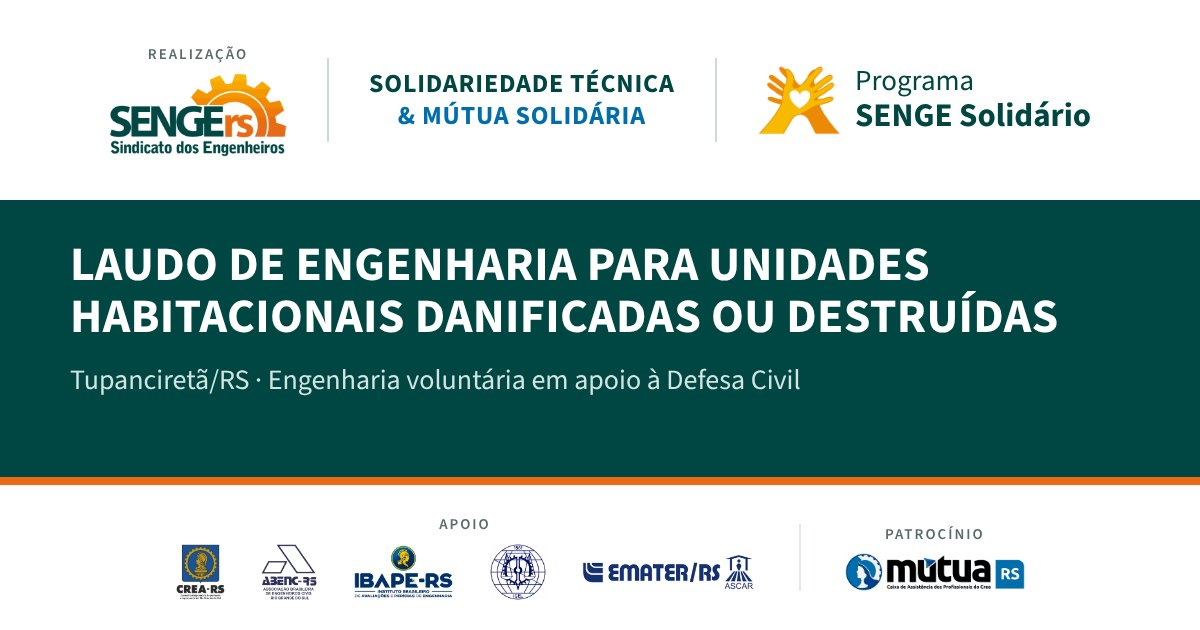
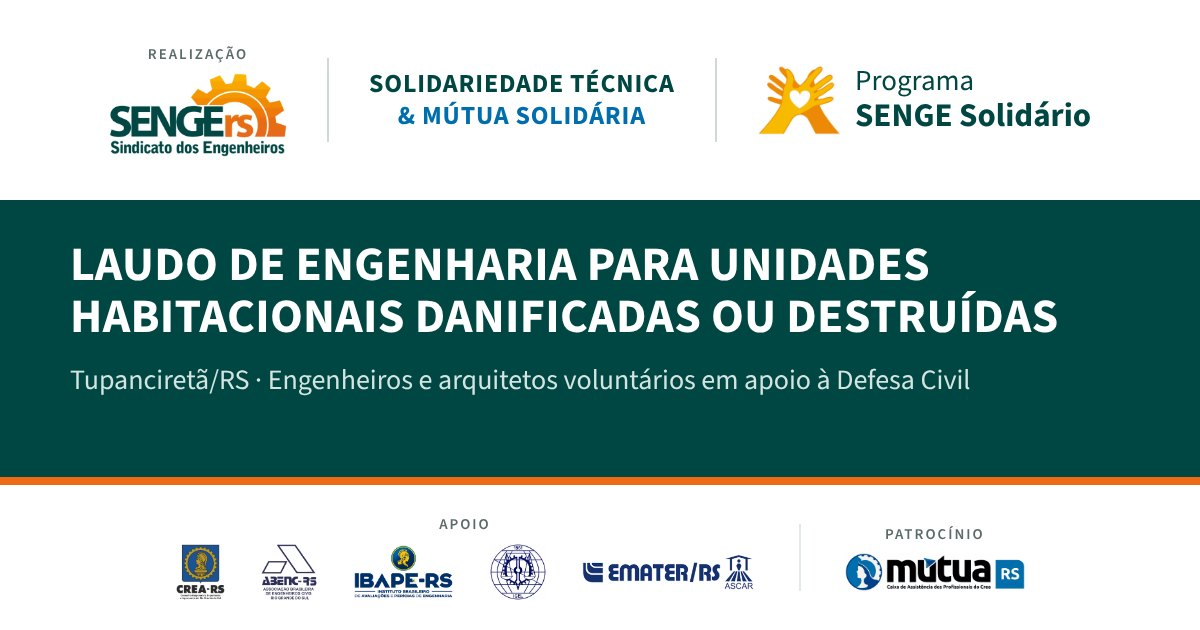
Laudos Tupanciretã: inclui arquitetos e urbanistas; fotos numeradas sem descrição
Claude-Session: https://claude.ai/code/session_018dCXhm8fffhvTyiHNMtGcB

Changed region(s): [[0.2775, 0.573, 0.8017, 0.6333]]

diff --git a/laudos-tupancireta/index.html b/laudos-tupancireta/index.html
@@ -7,12 +7,12 @@
 <meta name="theme-color" content="#004642">
 <link rel="apple-touch-icon" href="icon-192.png">
 <title>Laudo de engenharia – Unidades habitacionais · Tupanciretã · SENGE-RS</title>
-<meta name="description" content="Laudo de engenharia para unidades habitacionais danificadas ou destruídas, no modelo da Defesa Civil. Engenharia voluntária do SENGE-RS – Programa SENGE Solidário, em Tupanciretã/RS.">
+<meta name="description" content="Laudo de engenharia para unidades habitacionais danificadas ou destruídas, no modelo da Defesa Civil. Engenheiros e arquitetos voluntários do SENGE-RS – Programa SENGE Solidário, em Tupanciretã/RS.">
 <meta property="og:type" content="website">
 <meta property="og:locale" content="pt_BR">
 <meta property="og:site_name" content="SENGE-RS · Programa SENGE Solidário">
 <meta property="og:title" content="Laudo de engenharia – Unidades habitacionais · Tupanciretã/RS">
-<meta property="og:description" content="Engenharia voluntária em apoio à Defesa Civil. Preenchimento do laudo no modelo oficial, com fotos, localização e assinatura gov.br.">
+<meta property="og:description" content="Engenheiros e arquitetos voluntários em apoio à Defesa Civil. Preenchimento do laudo no modelo oficial, com fotos, localização e assinatura gov.br.">
 <meta property="og:url" content="https://engjessicamoraes.github.io/apresentacoessenge/laudos-tupancireta/">
 <meta property="og:image" content="https://engjessicamoraes.github.io/apresentacoessenge/laudos-tupancireta/og.jpg">
 <meta property="og:image:width" content="1200"><meta property="og:image:height" content="630">
@@ -181,7 +181,7 @@ footer button{background:none;border:0;padding:0;color:var(--muted);text-decorat
   <div class="mote"><span class="m1">SOLIDARIEDADE<br class="mb"> TÉCNICA</span><br class="dk"> <span class="m2">&amp;<br class="mb"> MÚTUA SOLIDÁRIA</span></div>
   <div class="div"></div>
[1 lines of base64/hex data omitted]
-  <div class="org">Engenharia voluntária<br>em apoio à Defesa Civil</div>
+  <div class="org">Engenheiros e arquitetos voluntários<br>em apoio à Defesa Civil</div>
   <div class="parc">
     <div class="grp"><span class="lab">Apoio</span><div class="lg">
[1 lines of base64/hex data omitted]
@@ -232,13 +232,13 @@ footer button{background:none;border:0;padding:0;color:var(--muted);text-decorat
     <div class="body">
       <div class="grid">
         <div class="f s8"><label class="l" for="rtNome">Nome completo <span class="req">*</span></label><input type="text" id="rtNome" data-k="rtNome" autocomplete="name"></div>
-        <div class="f s4"><label class="l" for="rtProf">Profissão <span class="req">*</span></label><input type="text" id="rtProf" data-k="rtProf" list="profs"></div>
-        <div class="f s4"><label class="l" for="rtReg">Registro de classe nº <span class="req">*</span></label><input type="text" id="rtReg" data-k="rtReg" placeholder="CREA-RS 000000"></div>
+        <div class="f s4"><label class="l" for="rtProf">Profissão <span class="req">*</span></label><input type="text" id="rtProf" data-k="rtProf" list="profs" placeholder="Ex.: Engenheiro(a) Civil ou Arquiteto(a) e Urbanista"></div>
+        <div class="f s4"><label class="l" for="rtReg">Registro profissional (CREA ou CAU) <span class="req">*</span></label><input type="text" id="rtReg" data-k="rtReg" placeholder="CREA-RS 000000 ou CAU A000000-0"></div>
         <div class="f s4"><label class="l" for="rtCargo">Cargo/Função</label><input type="text" id="rtCargo" data-k="rtCargo"></div>
         <div class="f s4"><label class="l" for="rtOrgao">Órgão/Entidade</label><input type="text" id="rtOrgao" data-k="rtOrgao"></div>
       </div>
       <p class="note">A assinatura é feita pelo gov.br, em nome do profissional indicado acima. Confira se o nome informado coincide com o do titular da conta gov.br.</p>
-      <datalist id="profs"><option>Engenheiro(a) Civil</option><option>Engenheiro(a) Civil e de Segurança do Trabalho</option><option>Arquiteto(a) e Urbanista</option><option>Engenheiro(a) Eletricista</option></datalist>
+      <datalist id="profs"><option>Engenheiro(a) Civil</option><option>Arquiteto(a) e Urbanista</option><option>Engenheiro(a) Civil e de Segurança do Trabalho</option><option>Engenheiro(a) Eletricista</option></datalist>
     </div>
   </details>
 
@@ -359,11 +359,7 @@ footer button{background:none;border:0;padding:0;color:var(--muted);text-decorat
         <span class="hint">Registre a vista geral da fachada, a cobertura, os ambientes internos atingidos e os detalhes dos danos.</span>
       </div>
       <div class="photos" id="photos"></div>
-      <datalist id="phDesc">
-        <option>Vista geral da fachada</option><option>Cobertura com destelhamento</option><option>Madeiramento da cobertura danificado</option>
-        <option>Forro com infiltração</option><option>Fissura em alvenaria</option><option>Trinca em alvenaria</option><option>Esquadria danificada</option>
-        <option>Queda de muro</option><option>Instalações elétricas danificadas</option><option>Ambiente interno atingido</option><option>Colapso parcial de alvenaria</option>
-      </datalist>
+
     </div>
   </details>
 
@@ -396,7 +392,7 @@ footer button{background:none;border:0;padding:0;color:var(--muted);text-decorat
 </main>
 
 <footer>
-  Iniciativa de engenharia voluntária do Sindicato dos Engenheiros no Estado do Rio Grande do Sul (SENGE-RS), por meio do Programa SENGE Solidário e da campanha Solidariedade Técnica &amp; Mútua Solidária, em apoio à Defesa Civil, com base no modelo oficial de laudo para unidades habitacionais (Anexo I). Os dados preenchidos ficam gravados no aparelho e o laudo é gerado no próprio navegador; ao final, uma cópia em PDF e em Word é enviada automaticamente à coordenação do programa. O mapa público não exibe dados pessoais.
+  Iniciativa de engenheiros e arquitetos voluntários, promovida pelo Sindicato dos Engenheiros no Estado do Rio Grande do Sul (SENGE-RS) por meio do Programa SENGE Solidário e da campanha Solidariedade Técnica &amp; Mútua Solidária, em apoio à Defesa Civil, com base no modelo oficial de laudo para unidades habitacionais (Anexo I). Os dados preenchidos ficam gravados no aparelho e o laudo é gerado no próprio navegador; ao final, uma cópia em PDF e em Word é enviada automaticamente à coordenação do programa. O mapa público não exibe dados pessoais.
 </footer>
 
 <div class="bar"><div class="in">
@@ -470,7 +466,7 @@ function cpfMask(v){ const d=v.replace(/\D/g,"").slice(0,11); return d.replace(/
 /* ====================== Estado ====================== */
 const DEFAULTS = {
   mun:"Tupanciretã", uf:"RS", evento:"vendaval", eventoOutro:"", cobrade:"1.3.2.1.5", dtOcorr:"2026-11-20", hrEvento:"madrugada", dtLaudo:"",
-  descEvento:"", rtNome:"", rtProf:"Engenheiro(a) Civil", rtReg:"", rtCargo:"Engenheiro(a) voluntário(a)", rtOrgao:"SENGE-RS – Programa SENGE Solidário",
+  descEvento:"", rtNome:"", rtProf:"", rtReg:"", rtCargo:"Profissional voluntário(a)", rtOrgao:"SENGE-RS – Programa SENGE Solidário",
   famNome:"", cpf:"", end:"", bairro:"", coord:"", area:"", tipo:"", tipoOutro:"", moradores:"",
   danos:[], danosOutro:"", cobTipo:"", cobPct:"", madeir:"", obsDanos:"", descDanos:"",
   hab:"", avalTec:"", imp:[], impOutro:"", impDesc:"", med:[], medOutro:"", medDesc:"",
@@ -896,7 +892,6 @@ function renderPhotos(){
       <div>
         <div class="t">Imagem ${i+1}<span>${({foto:"localização da própria foto",aparelho:"localização do celular no momento da foto",imovel:"localização do imóvel"})[p.gpsSrc]||(p.coord?"localização informada":"sem localização")}</span></div>
         <div class="m">
-          <input class="full" type="text" list="phDesc" data-pk="desc" value="${esc(p.desc)}" placeholder="Legenda (ex.: Cobertura com destelhamento)">
           <input type="text" data-pk="date" value="${esc(p.date)}" placeholder="Data e hora">
           <input type="text" data-pk="coord" value="${esc(p.coord)}" placeholder="Coordenadas (lat, long)">
         </div>
@@ -965,11 +960,11 @@ function blocks(){
 
   H("10. CONCLUSÃO TÉCNICA"); P(S.conclusao);
 
-  B.push({t:"sign", local:S.localData, nome:S.rtNome, cargo:S.rtCargo, reg:S.rtReg, orgao:[S.rtOrgao, S.mun?`${S.mun}${S.uf?"/"+S.uf.toUpperCase():""}`:""].filter(Boolean).join(" · ")});
+  B.push({t:"sign", local:S.localData, nome:S.rtNome, cargo:S.rtProf||S.rtCargo, reg:S.rtReg, orgao:[S.rtOrgao, S.mun?`${S.mun}${S.uf?"/"+S.uf.toUpperCase():""}`:""].filter(Boolean).join(" · ")});
   return B;
 }
 const TITLE1="LAUDO DE ENGENHARIA PARA UNIDADES HABITACIONAIS DANIFICADAS OU DESTRUÍDAS", TITLE2="(Eventos Súbitos)";
-const FOOT="Engenharia voluntária · SENGE-RS · Programa SENGE Solidário";
+const FOOT="Engenheiros e arquitetos voluntários · SENGE-RS · Programa SENGE Solidário";
 
 function splitLabel(t){ const m=String(t).match(/^([A-ZÁÉÍÓÚÂÊÔÃÕÇ][a-záéíóúâêôãõç]+(?: [a-záéíóúâêôãõç\/]+){0,3}:)\s+(.+)$/s); return m?[m[1],m[2]]:null; }
 function dataUrlToU8(u){ const b=atob(u.split(",")[1]); const a=new Uint8Array(b.length); for(let i=0;i<b.length;i++) a[i]=b.charCodeAt(i); return a; }
@@ -1048,7 +1043,7 @@ async function buildDocx(){
       kids.push(new Paragraph({spacing:{after:80,line:300},children:runs}));
     } else if(b.t==="img"){
       const maxW=567, maxH=360; let w=maxW, h=Math.round(maxW*b.h/b.w); if(h>maxH){ h=maxH; w=Math.round(maxH*b.w/b.h); }
-      kids.push(new Paragraph({keepNext:true,keepLines:true,spacing:{before:200,after:20},children:[new TextRun({text:`Imagem ${b.n} – ${b.desc}`,bold:true,color:TEAL})]}));
+      kids.push(new Paragraph({keepNext:true,keepLines:true,spacing:{before:200,after:20},children:[new TextRun({text:`Imagem ${b.n}`,bold:true,color:TEAL})]}));
       kids.push(new Paragraph({keepNext:true,spacing:{after:60},children:[new TextRun({text:b.meta,size:18,color:GREY})]}));
       kids.push(new Paragraph({alignment:AlignmentType.CENTER,spacing:{after:120},children:[new ImageRun({type:"jpg",data:dataUrlToU8(b.src),transformation:{width:w,height:h}})]}));
     } else if(b.t==="sign"){
@@ -1144,7 +1139,7 @@ async function buildPdf(){
     } else if(b.t==="img"){
       const maxW=150, maxH=100; let w=maxW, h=maxW*b.h/b.w; if(h>maxH){ h=maxH; w=maxH*b.w/b.h; }
       ensure(14+h); y+=3;
-      font("bold",10.5); color(TEAL); doc.text(doc.splitTextToSize(`Imagem ${b.n} – ${b.desc}`,W)[0],ML,y+3.7); y+=5.2;
+      font("bold",10.5); color(TEAL); doc.text(`Imagem ${b.n}`,ML,y+3.7); y+=5.2;
       font("normal",8.5); color(GREY); doc.splitTextToSize(b.meta,W).forEach(l=>{ doc.text(l,ML,y+3); y+=3.9; }); y+=1.2;
       doc.addImage(b.src,"JPEG",ML+(W-w)/2,y,w,h,undefined,"FAST"); y+=h+4;
     } else if(b.t==="sign"){
@@ -1301,7 +1296,7 @@ async function exportBackup(){
   if(!INDEX.length){ toast("Ainda não há laudos para copiar."); return; }
   const recs=[]; for(const it of INDEX){ const r=await IDB.get("laudo:"+it.id); if(r) recs.push({...r,meta:it}); }
   const data=JSON.stringify({app:"laudos-uh-senge",versao:1,criado:new Date().toISOString(),responsavel:S.rtNome||"",laudos:recs});
-  const name=`Copia_laudos_${slug(S.rtNome)||"engenheiro"}_${nowLocal().replace(/[-:T]/g,"")}.json`;
+  const name=`Copia_laudos_${slug(S.rtNome)||"profissional"}_${nowLocal().replace(/[-:T]/g,"")}.json`;
   const ok=await sendOrSave(new Blob([data],{type:"application/json"}),name,"Cópia de segurança dos laudos",
     `Arquivo com ${recs.length} ${recs.length>1?"laudos":"laudo"} e as respectivas fotografias. Guarde-o fora do aparelho (WhatsApp, e-mail ou Google Drive): ele pode ser restaurado neste site em qualquer celular ou computador, pelo botão “Restaurar cópia de segurança”.`);
   if(ok){ store(LS_BK,{em:new Date().toISOString()}); renderList(); }

diff --git a/laudos-tupancireta/mapa.html b/laudos-tupancireta/mapa.html
@@ -5,7 +5,7 @@
 <meta name="viewport" content="width=device-width, initial-scale=1">
 <title>Mapa dos imóveis vistoriados · Tupanciretã · SENGE-RS</title>
 <meta name="theme-color" content="#004642">
-<meta name="description" content="Mapa público dos imóveis vistoriados em Tupanciretã/RS pela engenharia voluntária do SENGE-RS – Programa SENGE Solidário, por situação de habitabilidade.">
+<meta name="description" content="Mapa público dos imóveis vistoriados em Tupanciretã/RS por engenheiros e arquitetos voluntários do SENGE-RS – Programa SENGE Solidário, por situação de habitabilidade.">
 <meta property="og:type" content="website">
 <meta property="og:locale" content="pt_BR">
 <meta property="og:site_name" content="SENGE-RS · Programa SENGE Solidário">
@@ -79,7 +79,7 @@ td.n,th.n{text-align:right;font-variant-numeric:tabular-nums}
   <div class="mote"><span class="m1">SOLIDARIEDADE<br class="mb"> TÉCNICA</span><br class="dk"> <span class="m2">&amp;<br class="mb"> MÚTUA SOLIDÁRIA</span></div>
   <div class="div"></div>
[1 lines of base64/hex data omitted]
-  <div class="org">Engenharia voluntária<br>em apoio à Defesa Civil</div>
+  <div class="org">Engenheiros e arquitetos voluntários<br>em apoio à Defesa Civil</div>
   <div class="parc">
     <div class="grp"><span class="lab">Apoio</span><div class="lg">
[1 lines of base64/hex data omitted]

diff --git a/laudos-tupancireta/sw.js b/laudos-tupancireta/sw.js
@@ -1,5 +1,5 @@
 /* Laudos UH – funcionamento sem internet */
-const VERSION = "laudos-uh-v19";
+const VERSION = "laudos-uh-v20";
 const CORE = ["./", "./index.html", "./manifest.webmanifest", "./icon-192.png", "./icon-512.png",
   "./lib/jspdf.umd.min.js", "./lib/docx.iife.js", "./lib/exifr-lite.umd.js", "./lib/leaflet.min.js", "./lib/leaflet.min.css",
   "./lib/images/marker-icon.png", "./lib/images/marker-icon-2x.png", "./lib/images/marker-shadow.png"];
